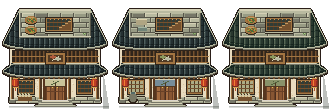
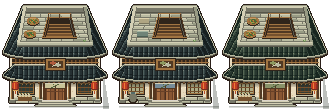
Refine courtyard houses with elevated front perspective

diff --git a/Assets/Scripts/Runtime/Art/ProceduralArtCourtyardHouse.cs b/Assets/Scripts/Runtime/Art/ProceduralArtCourtyardHouse.cs
@@ -21,10 +21,14 @@ namespace DotRPG
                 if (yy > bottom || yy < top) continue;
                 int inset = Mathf.RoundToInt(hip * (1 - (yy - top) / (float)height));
                 if (x < left + inset || x > right - inset) continue;
-                int ridge = (x - left) % 5, course = (yy - top) % 6;
+                // Side roof facets run diagonally into the front slope; they are separate planes.
+                bool sideFace = x < left + hip || x > right - hip;
+                int shear = x < left + hip ? (yy - top) / 2 : x > right - hip ? -(yy - top) / 2 : 0;
+                int ridge = (x - left + shear + 256) % 5, course = (yy - top + (sideFace ? Mathf.Abs(x - (left + right) / 2) / 2 : 0)) % 6;
                 int tone = ridge == 0 ? 0 : ridge == 1 ? 3 : ridge == 2 ? 2 : 1;
                 if (course == 5) tone = Mathf.Max(0, tone - 1);
                 if (course == 0 && ridge == 1 && IHash(x / 5, yy / 6, seed) % 3 != 0) tone = 4;
+                if (sideFace && x > right - hip) tone = Mathf.Max(0, tone - 1);
                 if (yy >= bottom - 1) tone = ridge == 1 ? 2 : 0;
                 c.Set(x, y, ramp[tone]);
             }
@@ -90,6 +94,89 @@ namespace DotRPG
             c.HLine(x - 3, x + 2, y - 3, CourtyardTimber[4]);
         }
 
+        static void CourtyardTerrace(PixelCanvas c, int variant)
+        {
+            // Foreshortened paving, not vertical brickwork: the rear edge is narrower and farther away.
+            for (int y = 10; y <= 43; y++)
+            {
+                float depth = (y - 10) / 33f;
+                int left = Mathf.RoundToInt(Mathf.Lerp(25, 19, depth));
+                int right = 109 - left;
+                float scale = Mathf.Lerp(.83f, 1, depth);
+                int row = (y - 10) / 4;
+                for (int x = left; x <= right; x++)
+                {
+                    int pavingX = Mathf.FloorToInt((x - 55) / scale + 60) + (row % 2) * 6;
+                    int joint = pavingX % 12;
+                    int tone = IHash(pavingX / 12, row, 814 + variant) % 4 == 0 ? 2 : 3;
+                    if ((y - 10) % 4 == 3 || joint == 0) tone = 1;
+                    else if ((y - 10) % 4 == 0) tone = Mathf.Min(4, tone + 1);
+                    c.Set(x, y, CourtyardStone[tone]);
+                }
+            }
+            // Rear parapet: bright horizontal cap, shaded inner face and a cast shadow on the floor.
+            c.Rect(23, 5, 64, 3, CourtyardStone[4]);
+            c.HLine(23, 86, 5, CourtyardStone[2]);
+            c.Rect(25, 8, 60, 4, CourtyardStone[1]);
+            c.HLine(25, 84, 12, CourtyardStone[0]);
+            // The two return walls visibly extend backwards; their caps and inner faces differ in tone.
+            for (int y = 7; y <= 43; y++)
+            {
+                int left = Mathf.RoundToInt(Mathf.Lerp(24, 18, (y - 7) / 36f));
+                c.HLine(left - 1, left + 1, y, CourtyardStone[4]);
+                c.Set(left + 2, y, CourtyardStone[1]);
+                c.Set(109 - left - 2, y, CourtyardStone[0]);
+                c.HLine(109 - left - 1, 109 - left + 1, y, CourtyardStone[2]);
+            }
+
+            // A stairwell opening in the floor, with exposed inner walls and horizontal treads.
+            // This replaces the old upright lattice window, which made the roof read as a facade.
+            for (int y = 18; y <= 36; y++)
+            {
+                int left = Mathf.RoundToInt(Mathf.Lerp(48, 43, (y - 18) / 18f));
+                int right = Mathf.RoundToInt(Mathf.Lerp(70, 75, (y - 18) / 18f));
+                c.HLine(left, right, y, CourtyardTimber[0]);
+                c.Set(left + 1, y, CourtyardTimber[2]);
+                c.Set(right - 1, y, CourtyardStone[0]);
+                if (y >= 24)
+                {
+                    int step = (y - 24) / 3;
+                    c.HLine(left + 3, right - 3, y,
+                        (y - 24) % 3 == 0 ? CourtyardTimber[3] : CourtyardTimber[1 + (step > 2 ? 1 : 0)]);
+                }
+            }
+            c.Line(47, 17, 71, 17, CourtyardTimber[3]);
+            c.Line(47, 18, 42, 37, CourtyardTimber[3]);
+            c.Line(71, 18, 76, 37, CourtyardTimber[1]);
+            c.HLine(42, 76, 37, CourtyardTimber[3]);
+            c.HLine(42, 76, 38, CourtyardTimber[0]);
+            // Low safety rail only on the rear rim, with visible posts (never a window grid).
+            for (int x = 48; x <= 70; x += 11) c.VLine(x, 13, 18, CourtyardTimber[1]);
+            c.HLine(48, 70, 13, CourtyardTimber[3]);
+
+            if (variant != 1)
+            {
+                CourtyardTray(c, 33, 21, 83 + variant);
+                CourtyardTray(c, 30, 34, 93 + variant);
+            }
+            else
+            {
+                // Folded textiles show their upper plane and a darker vertical front edge.
+                c.Rect(29, 18, 10, 5, PixelCanvas.Hex("#afa583"));
+                c.HLine(29, 38, 18, PixelCanvas.Hex("#ded2ad"));
+                c.HLine(29, 38, 23, PixelCanvas.Hex("#79745d"));
+                c.Rect(27, 31, 11, 5, PixelCanvas.Hex("#708478"));
+                c.HLine(27, 37, 31, PixelCanvas.Hex("#a5b6a2"));
+                c.HLine(27, 37, 36, PixelCanvas.Hex("#4d6055"));
+            }
+            // Front curb: broad top slab, short front face, then contact shadow onto the sloping tiles.
+            c.Rect(17, 42, 76, 3, CourtyardStone[3]);
+            c.HLine(18, 91, 42, CourtyardStone[4]);
+            c.HLine(17, 92, 45, CourtyardStone[1]);
+            c.HLine(18, 91, 46, CourtyardStone[0]);
+            c.Set(83, 40, TMoss); c.Set(84, 41, TMoss); c.Set(85, 40, TMossLight);
+        }
+
         static PixelCanvas CourtyardHouse(int variant)
         {
             // Same 110x110 canvas, 32px/tile density and (55,5) pivot as the original house.
@@ -100,13 +187,13 @@ namespace DotRPG
 
             // Recessed timber frontage, warm plaster panels and dressed stone footing.
             PlasterWall(c, 10, 99, 48, 100, 481 + variant);
-            c.Rect(12, 50, 86, 17, CourtyardTimber[0]);
+            c.Rect(12, 56, 86, 11, CourtyardTimber[0]);
             for (int x = 15; x <= 95; x += 4)
             {
-                c.VLine(x, 51, 65, CourtyardTimber[2]);
-                c.VLine(x + 1, 51, 65, CourtyardTimber[1]);
+                c.VLine(x, 57, 65, CourtyardTimber[2]);
+                c.VLine(x + 1, 57, 65, CourtyardTimber[1]);
             }
-            c.HLine(12, 98, 56, CourtyardTimber[3]);
+            c.HLine(12, 98, 58, CourtyardTimber[3]);
             c.HLine(12, 98, 62, CourtyardTimber[3]);
             StoneWall(c, 9, 100, 97, 102, CourtyardStone, 60, 4);
             foreach (int x in new[] { 11, 39, 68, 96 })
@@ -116,8 +203,8 @@ namespace DotRPG
                 c.Rect(x - 1, 99, 5, 3, CourtyardStone[1]);
                 c.HLine(x - 1, x + 3, 99, CourtyardStone[4]);
             }
-            CourtyardLattice(c, 19, 81, 14, 12, variant != 0);
-            CourtyardLattice(c, 78, 81, 13, 12, variant == 1);
+            CourtyardLattice(c, 19, 84, 14, 9, variant != 0);
+            CourtyardLattice(c, 78, 84, 13, 9, variant == 1);
             Door(c, cx, 100, 18, 25, false, true);
             // Layered entrance steps stop at the existing front edge instead of occupying a new tile.
             for (int step = 0; step < 3; step++)
@@ -127,58 +214,31 @@ namespace DotRPG
                 c.HLine(cx - half + 1, cx + half - 1, y, CourtyardStone[4 - step / 2]);
             }
 
-            // Main hip roof, flat stone terrace and its recessed wooden roof hatch.
-            CourtyardRoof(c, 3, 106, 9, 47, 16, tile, 61 + variant);
-            c.Rect(19, 11, 72, 27, CourtyardTimber[0]);
-            StoneWall(c, 21, 88, 13, 35, CourtyardStone, 814 + variant, 5);
-            c.Rect(19, 10, 72, 3, CourtyardStone[3]);
-            c.HLine(20, 89, 10, CourtyardStone[4]);
-            c.VLine(19, 13, 37, CourtyardStone[4]);
-            c.VLine(20, 13, 37, CourtyardStone[1]);
-            c.VLine(89, 13, 37, CourtyardStone[2]);
-            c.VLine(90, 13, 37, CourtyardStone[0]);
-            c.HLine(19, 90, 36, CourtyardStone[4]);
-            c.HLine(19, 90, 37, CourtyardStone[1]);
-            CourtyardLattice(c, 47, 19, 24, 11, false);
-            // A few visible stair treads inside the hatch hint at the roof's usable space.
-            for (int stair = 0; stair < 4; stair++)
-            {
-                c.Rect(59 + stair * 3, 27 - stair * 2, 3, 3 + stair * 2, CourtyardTimber[2]);
-                c.HLine(59 + stair * 3, 61 + stair * 3, 27 - stair * 2, CourtyardTimber[4]);
-            }
-            if (variant != 1)
-            {
-                CourtyardTray(c, 31, 20, 83 + variant);
-                CourtyardTray(c, 31, 30, 93 + variant);
-            }
-            else
-            {
-                c.Rect(26, 19, 11, 6, PixelCanvas.Hex("#afa583"));
-                c.HLine(26, 36, 19, PixelCanvas.Hex("#ded2ad"));
-                c.Rect(28, 27, 9, 4, PixelCanvas.Hex("#708478"));
-                c.HLine(28, 36, 27, PixelCanvas.Hex("#a5b6a2"));
-            }
-            c.Set(83, 33, TMoss); c.Set(84, 34, TMoss); c.Set(85, 33, TMossLight);
+            // More than half the silhouette is now visible roof depth, with a horizontal terrace.
+            CourtyardRoof(c, 3, 106, 5, 56, 20, tile, 61 + variant);
+            CourtyardTerrace(c, variant);
 
             // A second tiled eave shades the door and supports a small carved plaque.
-            CourtyardRoof(c, 3, 106, 63, 75, 10, tile, 110 + variant);
-            for (int x = 13; x < 98; x += 5) c.Rect(x, 77, 2, 2, CourtyardTimber[2]);
-            c.Rect(cx - 10, 52, 21, 13, CourtyardTimber[0]);
-            c.Rect(cx - 9, 53, 19, 11, CourtyardTimber[3]);
-            c.Rect(cx - 7, 55, 15, 7, CourtyardTimber[1]);
-            c.Line(cx - 3, 60, cx + 3, 56, CourtyardStone[4]);
-            c.Ellipse(cx - 2, 57, 3, 1.7f, variant == 0 ? PixelCanvas.Hex("#b05c3e") : PixelCanvas.Hex("#8d9a60"));
-            c.Ellipse(cx + 3, 59, 3, 1.7f, CourtyardStone[3]);
-            CourtyardLantern(c, 15, 79);
-            CourtyardLantern(c, 94, 79);
+            CourtyardRoof(c, 3, 106, 64, 79, 11, tile, 110 + variant);
+            for (int x = 13; x < 98; x += 5) c.Rect(x, 82, 2, 2, CourtyardTimber[2]);
+            for (int y = 83; y <= 86; y++) for (int x = 13; x <= 96; x++)
+                c.Set(x, y, new Color32(22, 24, 21, (byte)(100 - (y - 83) * 20)));
+            c.Rect(cx - 10, 58, 21, 13, CourtyardTimber[0]);
+            c.Rect(cx - 9, 59, 19, 11, CourtyardTimber[3]);
+            c.Rect(cx - 7, 61, 15, 7, CourtyardTimber[1]);
+            c.Line(cx - 3, 66, cx + 3, 62, CourtyardStone[4]);
+            c.Ellipse(cx - 2, 63, 3, 1.7f, variant == 0 ? PixelCanvas.Hex("#b05c3e") : PixelCanvas.Hex("#8d9a60"));
+            c.Ellipse(cx + 3, 65, 3, 1.7f, CourtyardStone[3]);
+            CourtyardLantern(c, 15, 82);
+            CourtyardLantern(c, 94, 82);
             // Short shop curtain, split in the centre so the entrance remains obvious.
             var cloth = variant == 0 ? PixelCanvas.Hex("#c9c398") : variant == 1 ? PixelCanvas.Hex("#768c99") : PixelCanvas.Hex("#899269");
-            c.Rect(45, 79, 20, 7, cloth);
-            c.HLine(45, 64, 79, CourtyardStone[4]);
-            c.HLine(45, 64, 86, CourtyardTimber[1]);
-            c.VLine(cx, 83, 86, CourtyardTimber[1]);
-            c.Line(cx - 4, 84, cx + 3, 81, PixelCanvas.Hex("#52633c"));
-            c.Set(cx - 2, 81, PixelCanvas.Hex("#52633c"));
+            c.Rect(45, 83, 20, 5, cloth);
+            c.HLine(45, 64, 83, CourtyardStone[4]);
+            c.HLine(45, 64, 88, CourtyardTimber[1]);
+            c.VLine(cx, 86, 88, CourtyardTimber[1]);
+            c.Line(cx - 4, 87, cx + 3, 84, PixelCanvas.Hex("#52633c"));
+            c.Set(cx - 2, 84, PixelCanvas.Hex("#52633c"));
 
             // Small grounded household details stay clear of the central interaction area.
             if (variant == 1)
